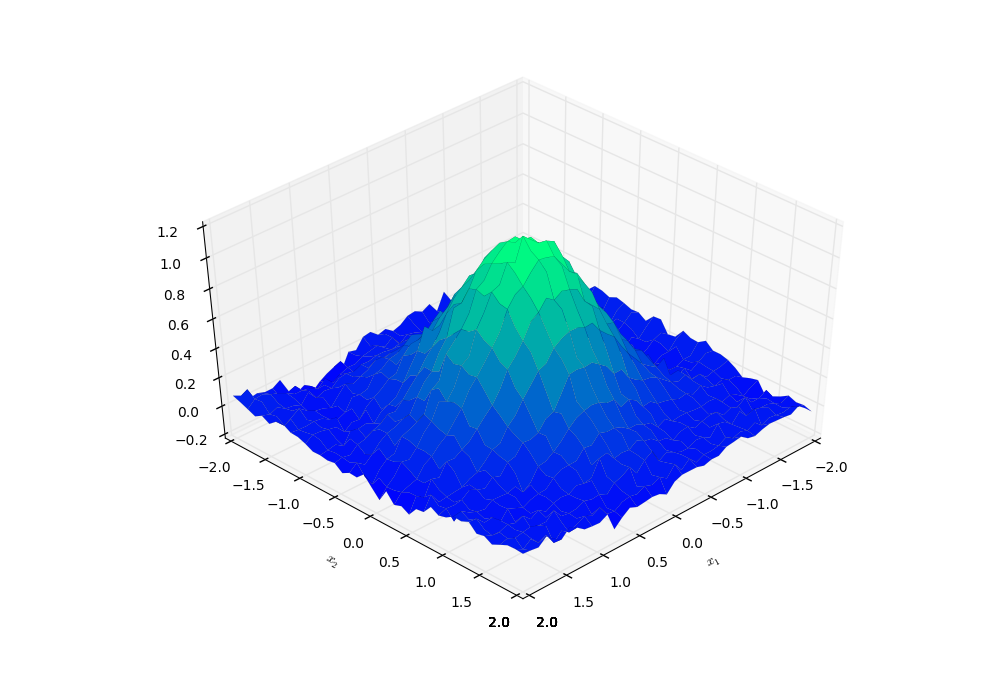
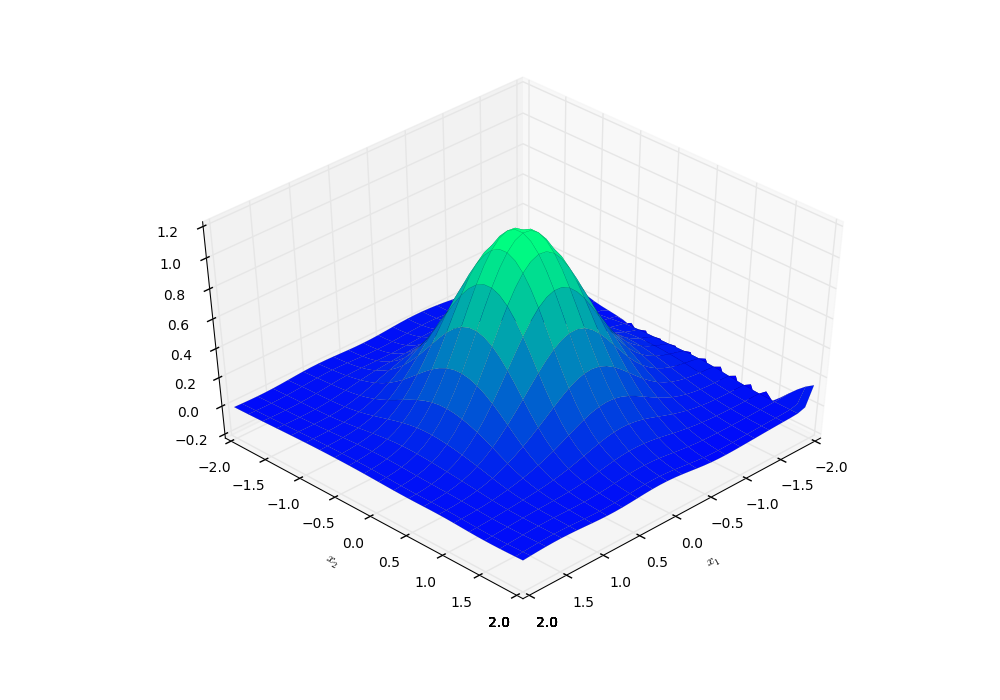
2_3 plots

Changed region(s): [[0.217, 0.33, 0.837, 0.81]]

diff --git a/assignment-4/exercise2.py b/assignment-4/exercise2.py
@@ -9,6 +9,7 @@ from matplotlib import cm
 from scipy.stats import multivariate_normal
 from mpl_toolkits.mplot3d import Axes3D
 import random
+from tqdm import tqdm
 
 
 #Gaussian
@@ -145,10 +146,10 @@ def run_nn():
     
     outputs = np.zeros(Y.shape)
     
-    for i in range(500):
+    for i in tqdm(range(500)):
         outputs = np.zeros(Y.shape)
         indices = range(len(X))
-        random.shuffle(indices)
+        #random.shuffle(indices)
         
         for n, index in enumerate(indices):
             x = X[index]
@@ -156,17 +157,14 @@ def run_nn():
             
             out, activation = forward_pass(weights_1, weights_2, x)
             outputs[index] = out
-            weights_1, weights_2 = backpropagation(weights_1, weights_2, activation, out, target=y, x=x, eta=0.01)
+            weights_1, weights_2 = backpropagation(weights_1, weights_2, activation, out, target=y, x=x, eta=0.1)
       
         if i == 0:
-            plot_gaussian_given(x_grid, y_grid, outputs, "ex2_2")
+            plot_gaussian_given(x_grid, y_grid, outputs, "ex2_2", elev=45, azim=45)
+        if i == 1:
+            plot_gaussian_given(x_grid, y_grid, outputs, "ex2_2_1", elev=45, azim=45)
         if (i+1)%50 == 0:            
-            plot_gaussian_given(x_grid, y_grid, outputs, "ex2_3_"+str(i+1))
-            
-        if (i+1)%10 == 0:
-            #print np.linalg.norm(Y - outputs)
-            print i
-    
+            plot_gaussian_given(x_grid, y_grid, outputs, "ex2_3_"+str(i+1), elev=45, azim=45)
 
 def run_nn_6():
     data = np.loadtxt('a017_NNpdfGaussMix.txt')
@@ -190,7 +188,7 @@ def run_nn_6():
     
     outputs = np.zeros(Y.shape)
     
-    for i in range(2000):
+    for i in tqdm(range(2000)):
         outputs = np.zeros(Y.shape)
         indices = range(len(X))
         random.shuffle(indices)
@@ -206,10 +204,6 @@ def run_nn_6():
       
         if (i+1)%50 == 0:            
             plot_gaussian_given(x_grid, y_grid, outputs, "plot/ex2_6_alt"+str(i+1), elev=65, azim=45)
-            
-        if (i+1)%10 == 0:
-            #print np.linalg.norm(Y - outputs)
-            print i
 
 if __name__ == "__main__":
     np.random.seed(1)
